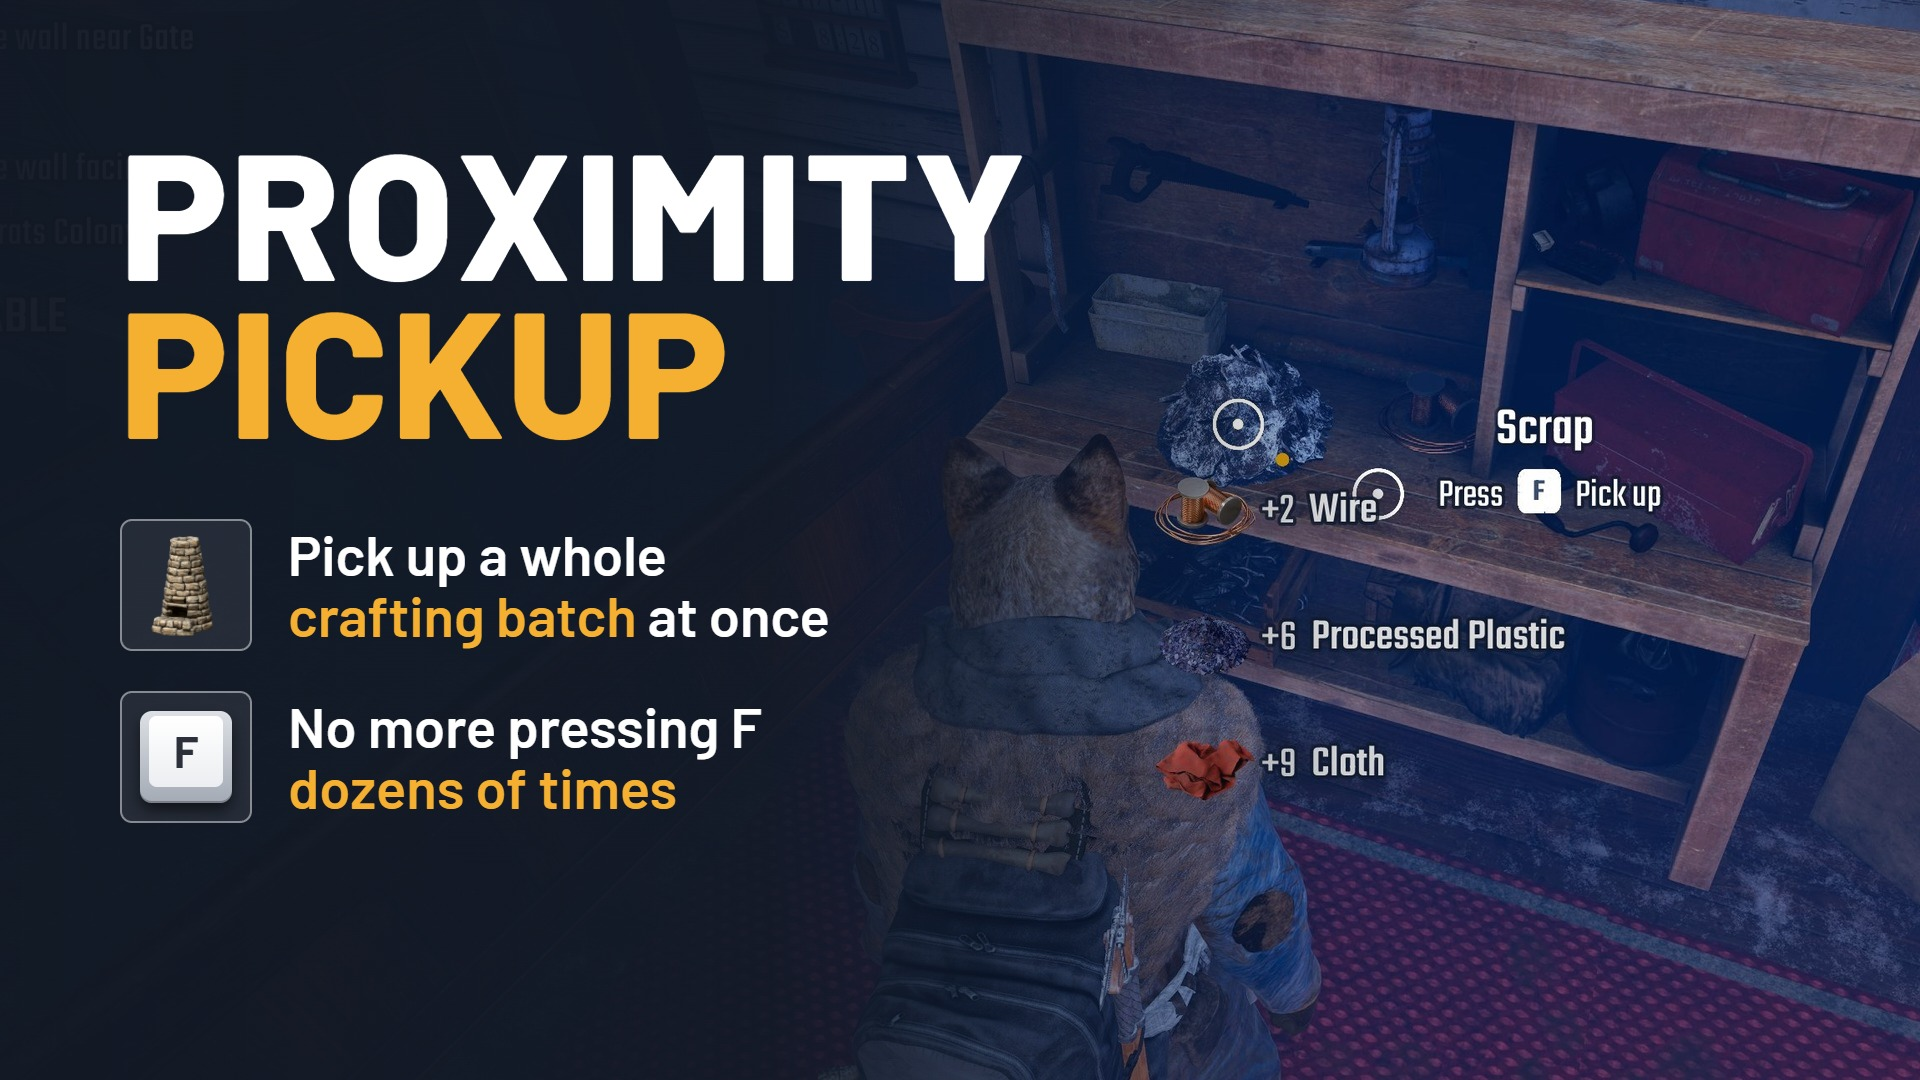
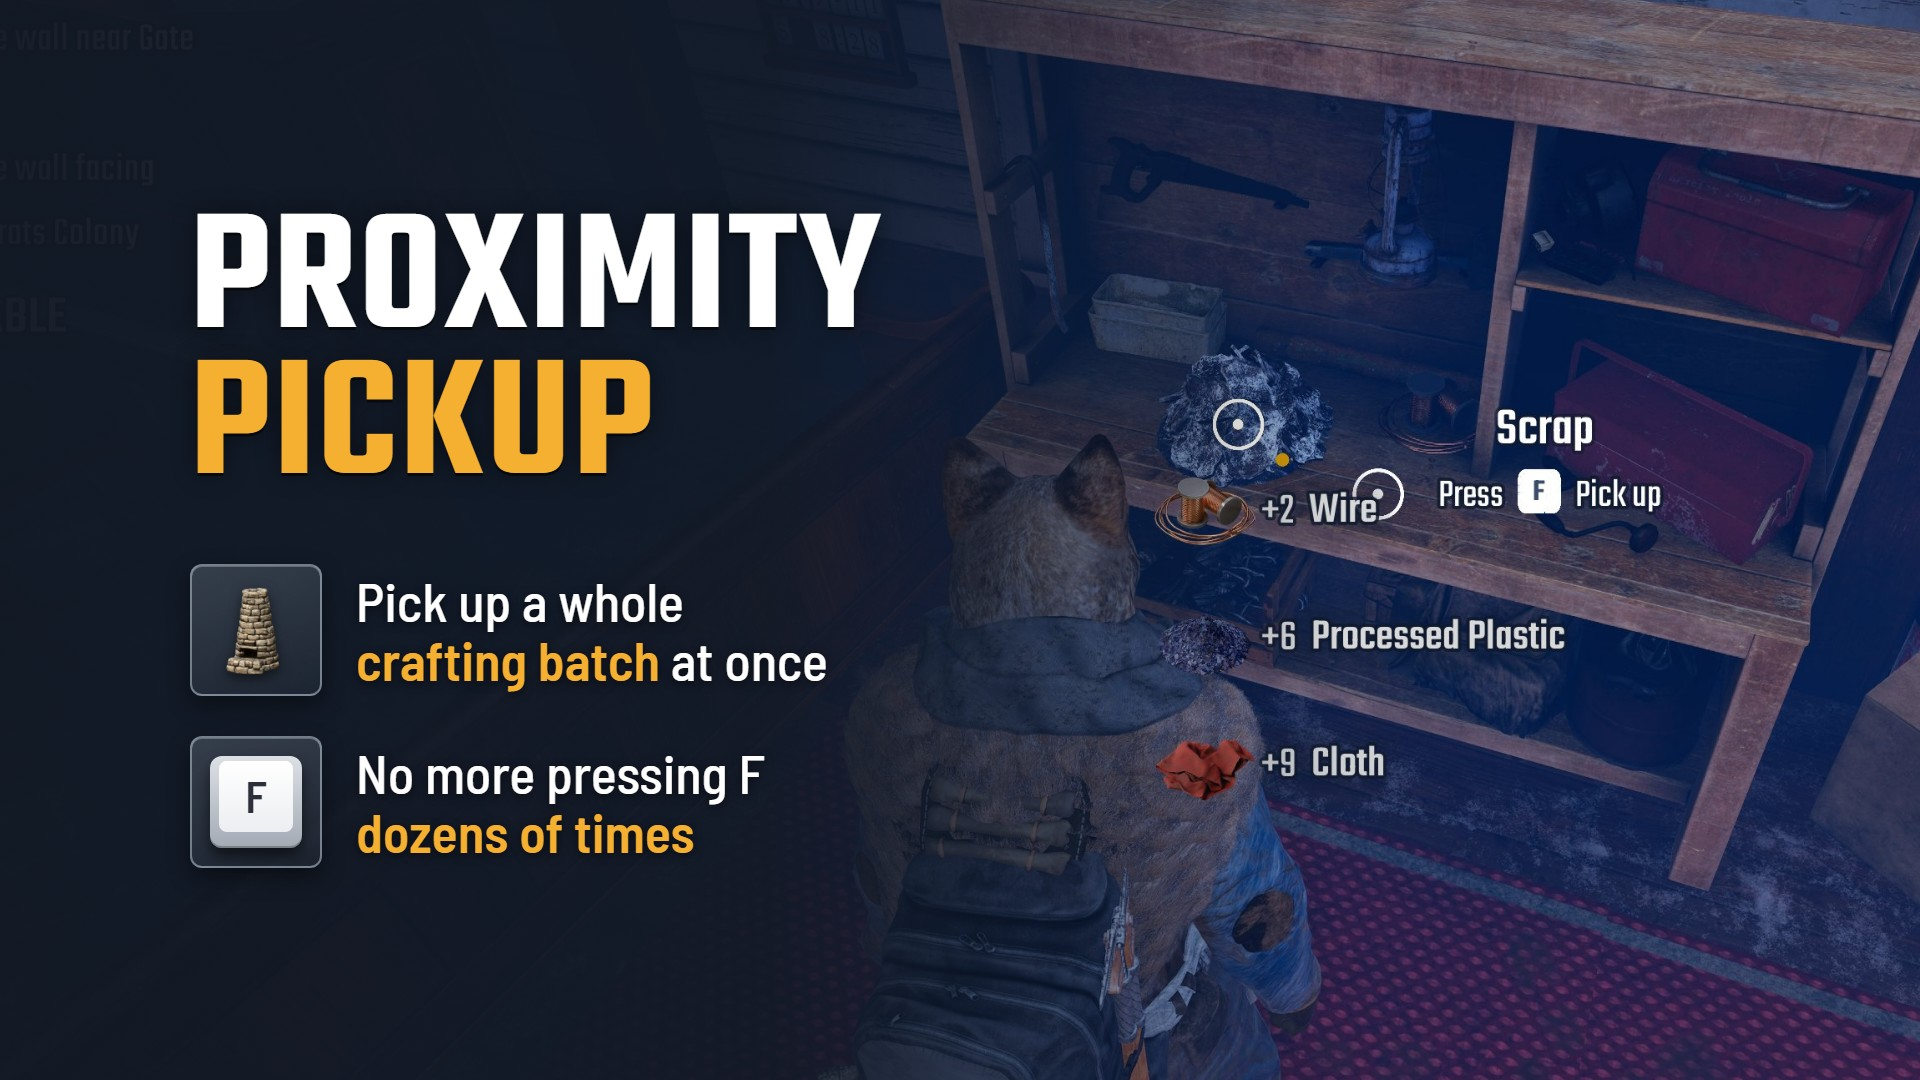
Render the Nexus thumbnail with the nexus-mod-images tool
Add content.json and the source screenshot, and use the shared Permafrost layout (Teko title, Barlow Semi Condensed captions, shadows).

Changed region(s): [[0.0625, 0.1222, 0.5312, 0.4583], [0.0625, 0.4889, 0.4375, 0.7944]]

diff --git a/nexus/images/README.md b/nexus/images/README.md
@@ -1,10 +1,10 @@
 # Nexus images
 
-Made from in-game screenshots at 3840x2160, scaled down.
+Made from in-game screenshots at 3840x2160, scaled down. The thumbnail is rendered from `content.json` and `src/`; the other images are older crops.
 
 | File | Size | Role | Content |
 |---|---|---|---|
-| `00-thumbnail.jpg` | 1920x1080 | Gallery, first (Nexus uses it as the mods-grid thumbnail) | The title "Proximity Pickup" and two lines: the game's Stone Furnace icon with "Pick up a whole crafting batch at once", and a keyboard F keycap with "No more pressing F dozens of times". The background is the `gallery-2-after.jpg` shot, cropped so that the pickup lines (+2 Wire, +6 Processed Plastic, +9 Cloth) and the Scrap prompt sit on the right and the compass, the hotbar, and the key hints are cut off, darkened on the left. The icon is the game's own texture (`T_Stone_Furnace_Icon`). The layout is rendered from HTML with headless Edge. |
+| `00-thumbnail.jpg` | 1920x1080 | Gallery, first (Nexus uses it as the mods-grid thumbnail) | The title "Proximity Pickup" ("Pickup" in gold), and two lines: the game's Stone Furnace icon with "Pick up a whole crafting batch at once" ("crafting batch" in gold), and an F keycap (drawn by the tool) with "No more pressing F dozens of times". The background is a crop of the `gallery-2-after.jpg` shot (`src/pickup-lines.jpg`), with the pickup lines (+2 Wire, +6 Processed Plastic, +9 Cloth) and the Scrap prompt on the right, darkened on the left. The icon is the game's own texture (`T_Stone_Furnace_Icon`). The layout is the series layout of the Permafrost mods (`MOD-IMAGES.md`); on the smallest grid card, the check box and the update badge cover a small part of the top-left corner of the title, which is accepted. Rendered with the nexus-mod-images tool from `content.json` and the screenshot in `src/`. |
 | `background.jpg` | 1300x372 | Page background | The Dismantle Bench with its prompt ("Press F Open") and the pickup lines "+1 Wire", "+12 Scrap", and "+30 Processed Plastic", cropped from the `gallery-3-bench.jpg` shot without the side and bottom HUD. |
 | `gallery-1-before.jpg` | 1920x1080 | Gallery | The output of the Dismantle Bench on its shelf, with the Cloth prompt ("Press F Pick up"). |
 | `gallery-2-after.jpg` | 1920x1080 | Gallery | One second later: the pickup lines "+2 Wire", "+6 Processed Plastic", and "+9 Cloth", and the Scrap pile still on the shelf with its prompt. |
